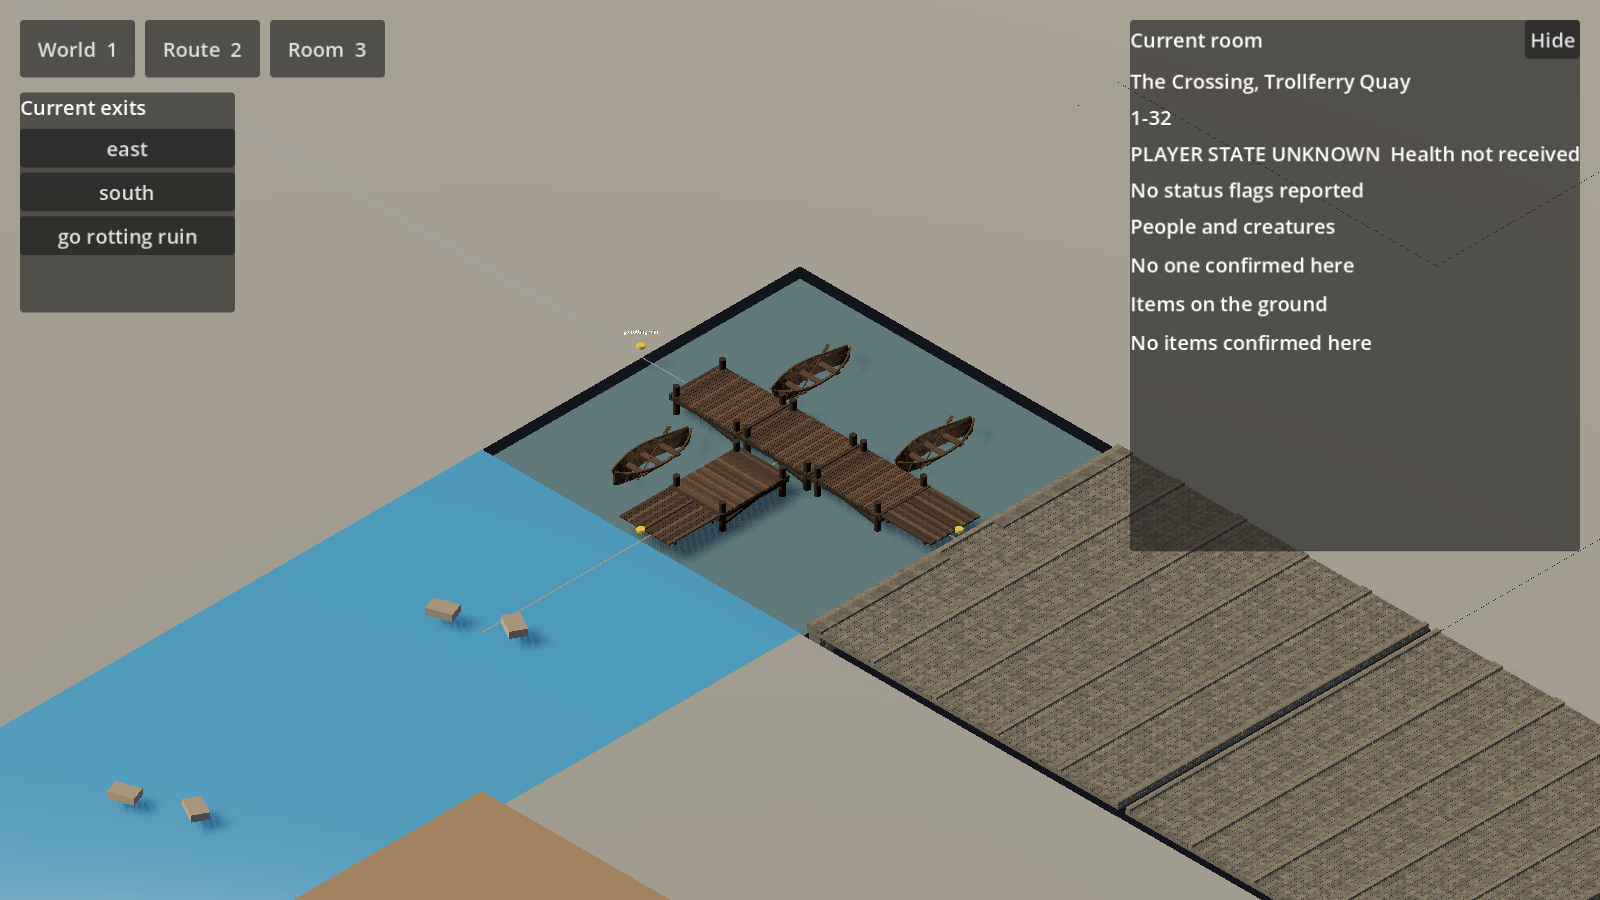
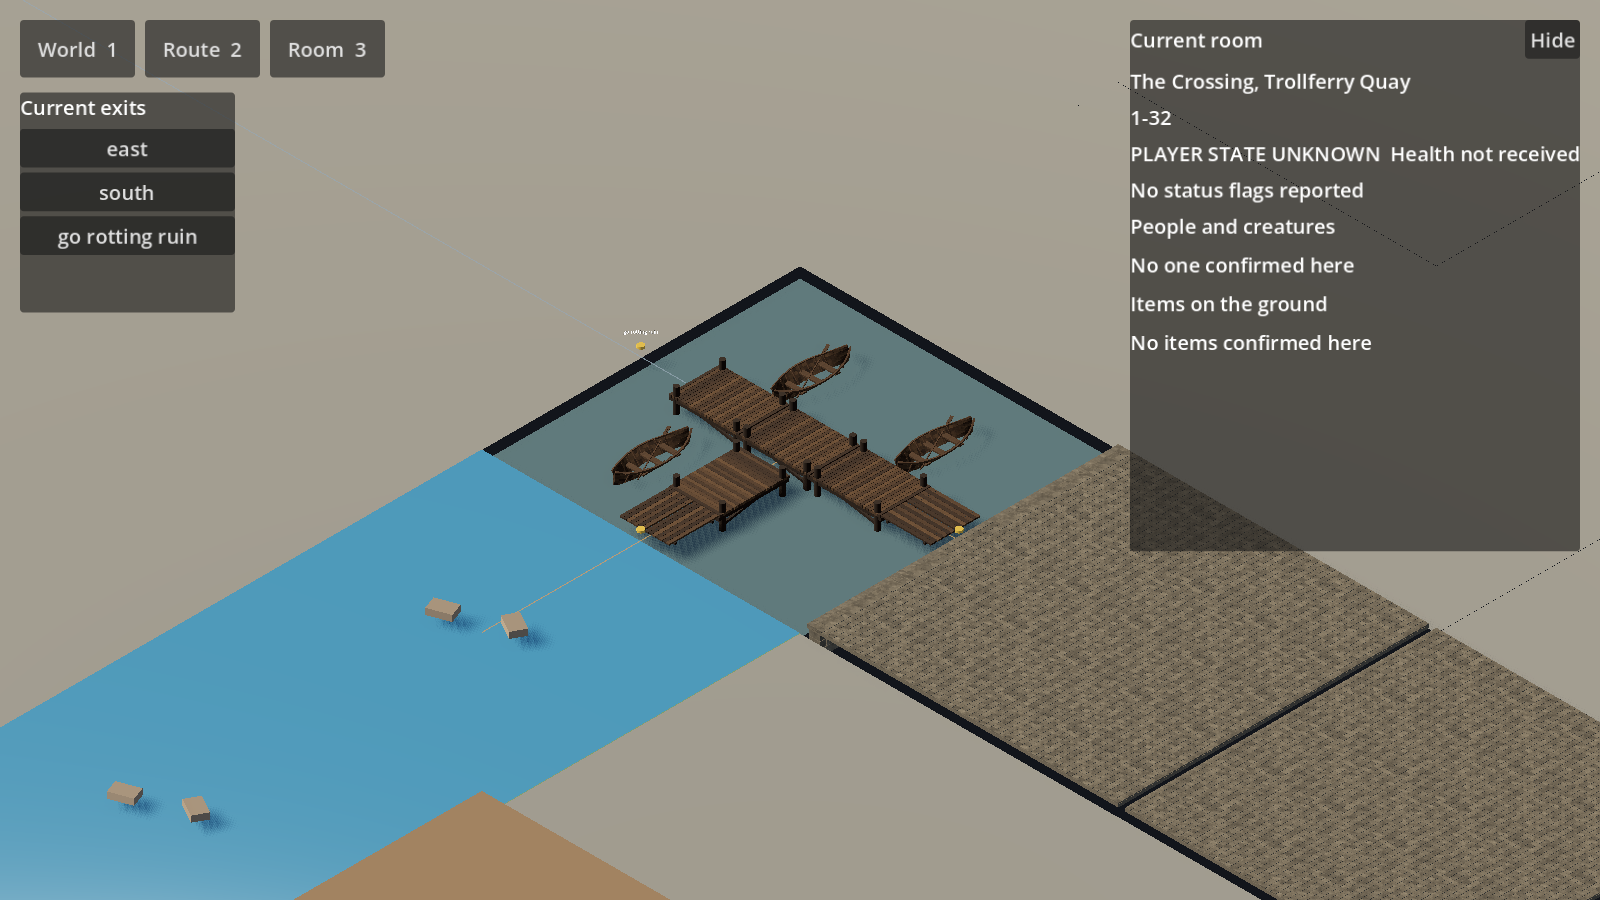
Remove repeated interior curbs from broad paved room bases

Changed region(s): [[0.5, 0.4978, 1.0, 1.0]]

diff --git a/docs/verification/crossing-native-content.md b/docs/verification/crossing-native-content.md
@@ -400,6 +400,23 @@ silently enlarge scenery beyond known bounds.
 
 ## Reproduce
 
+### Paving repetition correction and lighting probe
+
+The shared `cobble-street` source contains raised curbs on both sides of each
+4 m module. Repeating it across a full room created interior parallel curb
+lines, not merely a texture artifact. Broad bases in rooms `1-12`, `1-13`,
+`1-25` and `1-26` now use the already-selected curb-free `cobble-plaza` module.
+Small authored curbed approaches remain separate. A regression check prevents
+curbed street tiles from returning as full-room base recipes.
+
+The quay/approach view was rendered and inspected with the normal lighting.
+Its repeated raised lines are gone. A separate `--unshadowed` capture disables
+only the sun's cast shadows and writes an `-unshadowed` diagnostic image, never
+overwriting the normal render. Fine surface stippling persisted in that probe;
+this does not establish its cause, and material/SSAO review remains open.
+Production cast shadows were not disabled or weakened. The diagnostic image
+is not a proposed visual direction. All 4,377 Godot checks passed.
+
 ### Trollferry bank and street continuation
 
 Rooms `1-25` and `1-26` now continue into `1-32` as one description-led approach
